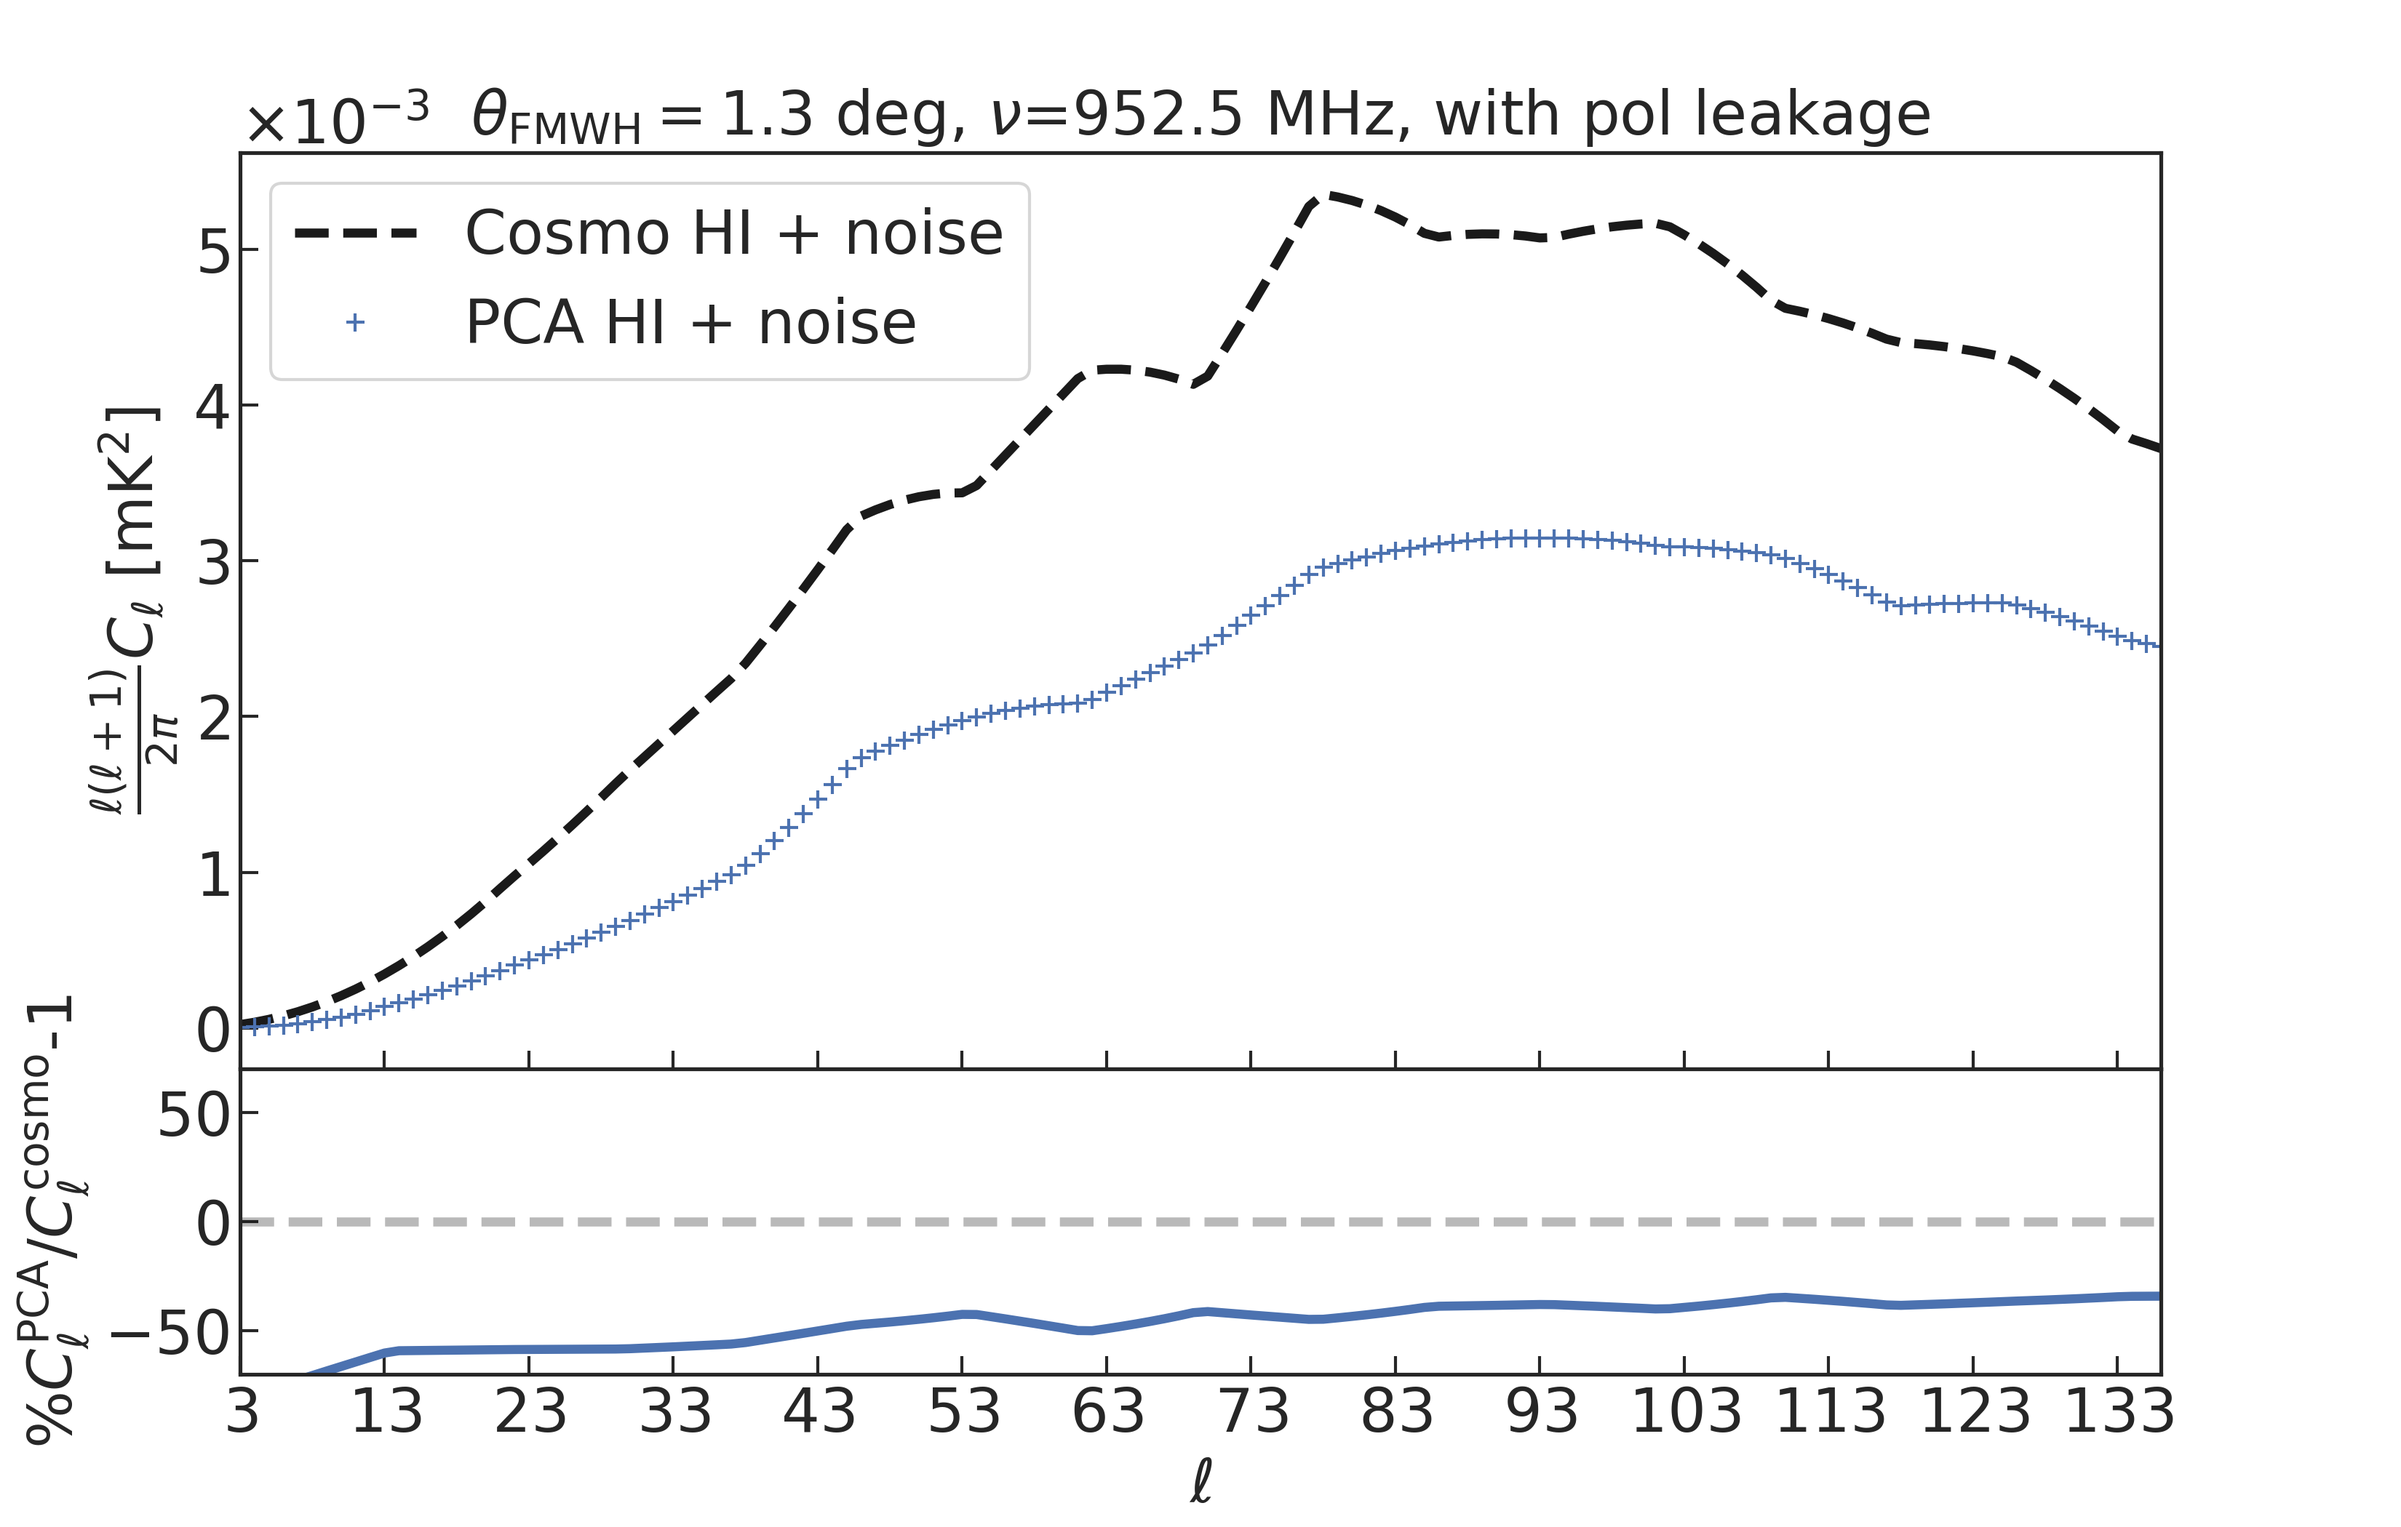
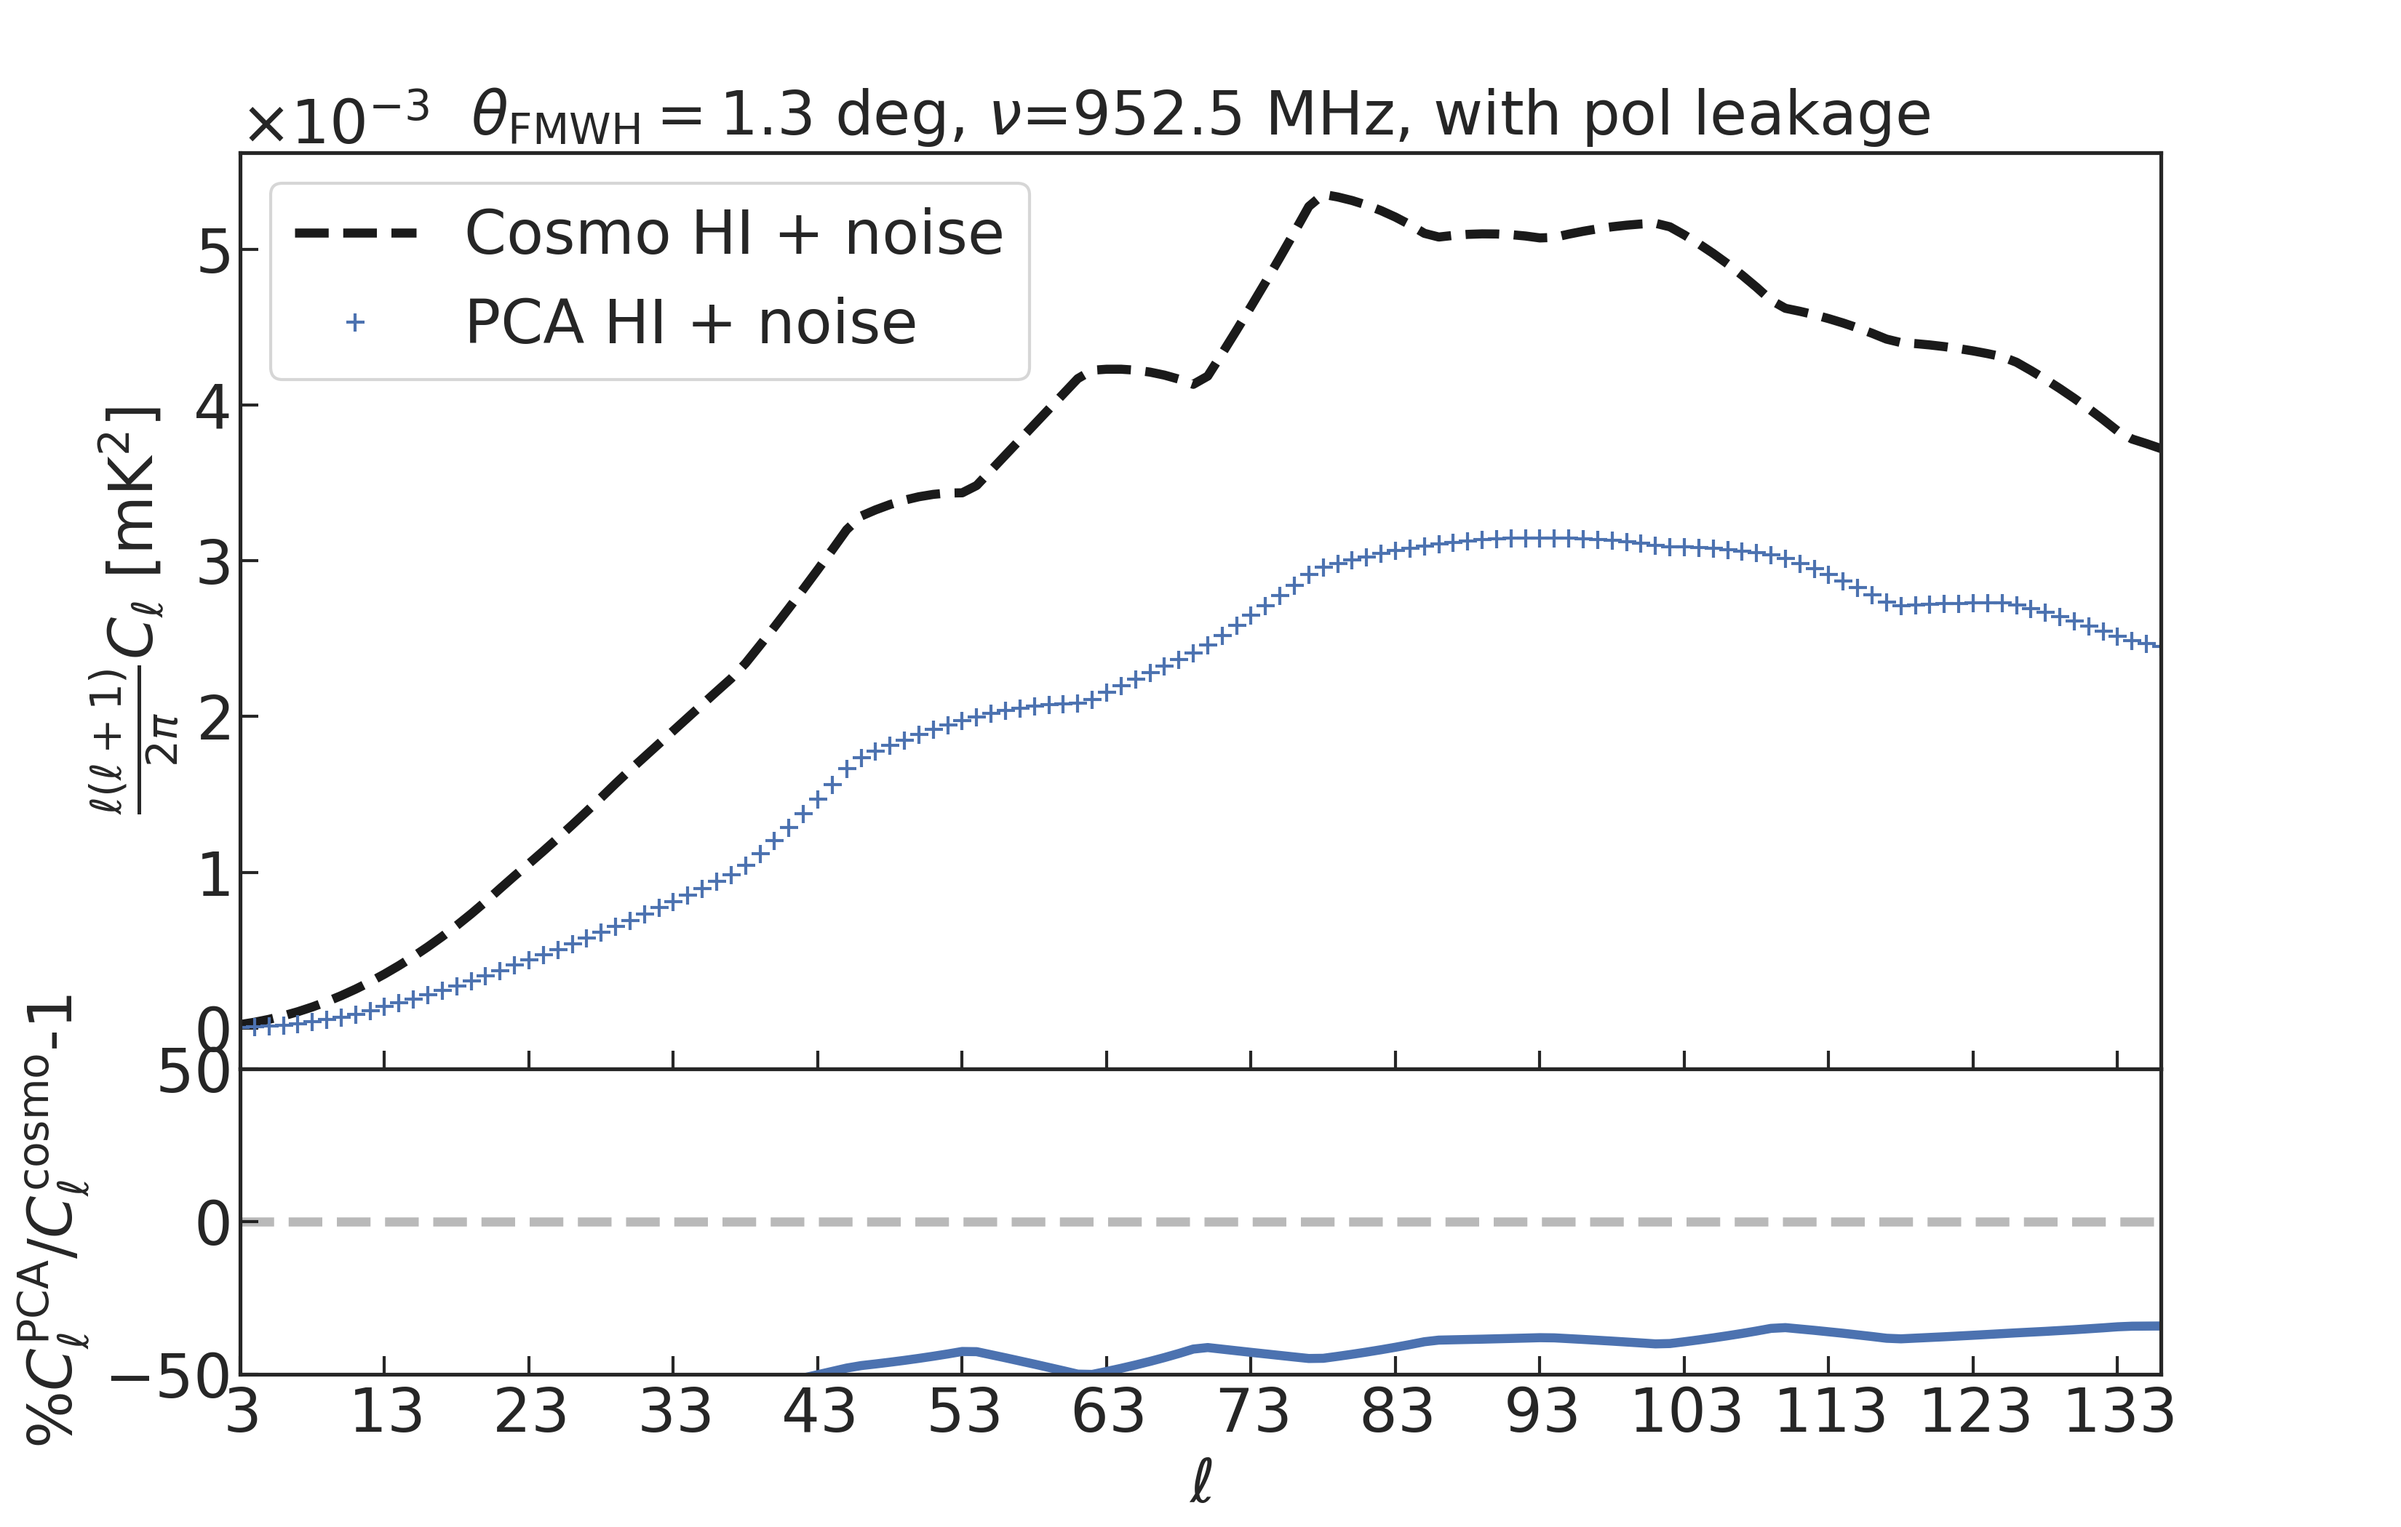
fixed some plots

Changed region(s): [[0.1248, 0.8357, 0.9052, 0.8976], [0.0624, 0.8357, 0.0936, 0.9286], [0.0624, 0.681, 0.0936, 0.7429]]

diff --git a/PCA_needlets_output/plots_paper.py b/PCA_needlets_output/plots_paper.py
@@ -111,9 +111,9 @@ plt.plot(ell[lmin:], diff_cl_need2sphe[ich][lmin:]*100,)
 frame2.axhline(ls='--', c= 'k', alpha=0.3)
 frame2.set_xlim([lmin,lmax_plot])
 if fg_comp=='synch_ff_ps_pol':
-	frame2.set_ylim([-70,70])
+	frame2.set_ylim([-50,50])
 else:
-	frame2.set_ylim([-20,20])
+	frame2.set_ylim([-50,50])
 frame2.set_ylabel(r'%$ C_{\ell}^{\rm PCA}/C_{\ell}^{\rm cosmo} $-1')
 frame2.set_xlabel(r'$\ell$')
 #frame2.yaxis.set_major_formatter(formatter) 
@@ -143,9 +143,9 @@ plt.plot(ell[lmin:], diff_cl_need2sphe.mean(axis=0)[lmin:]*100)
 frame2.axhline(ls='--', c= 'k', alpha=0.3)
 frame2.set_xlim([lmin,lmax_plot])
 if fg_comp=='synch_ff_ps_pol':
-	frame2.set_ylim([-70,70])
+	frame2.set_ylim([-50,50])
 else:
-	frame2.set_ylim([-20,20])
+	frame2.set_ylim([-50,50])
 frame2.set_ylabel(r'%$ \langle C_{\ell}^{\rm PCA}/C_{\ell}^{\rm cosmo} -1\rangle_{\rm ch}$')
 frame2.set_xlabel(r'$\ell$')
 #frame2.yaxis.set_major_formatter(formatter) 
@@ -204,9 +204,9 @@ plt.plot(ell[lmin:], diff_cl_need2sphe[ich][lmin:]*100,)
 frame2.axhline(ls='--', c= 'k', alpha=0.3)
 frame2.set_xlim([lmin,lmax_plot])
 if fg_comp=='synch_ff_ps_pol':
-	frame2.set_ylim([-70,70])
+	frame2.set_ylim([-50,50])
 else:
-	frame2.set_ylim([-20,20])
+	frame2.set_ylim([-50,50])
 frame2.set_ylabel(r'%$ C_{\ell}^{\rm PCA}/C_{\ell}^{\rm cosmo} $-1')
 frame2.set_xlabel(r'$\ell$')
 #frame2.yaxis.set_major_formatter(formatter) 
@@ -233,9 +233,9 @@ plt.plot(ell[lmin:], diff_cl_need2sphe_pol.mean(axis=0)[lmin:]*100)
 frame2.axhline(ls='--', c= 'k', alpha=0.3)
 frame2.set_xlim([lmin,lmax_plot])
 if fg_comp=='synch_ff_ps_pol':
-	frame2.set_ylim([-70,70])
+	frame2.set_ylim([-50,50])
 else:
-	frame2.set_ylim([-20,20])
+	frame2.set_ylim([-50,50])
 frame2.set_ylabel(r'%$ \langle C_{\ell}^{\rm PCA}/C_{\ell}^{\rm cosmo} -1\rangle_{\rm ch}$')
 frame2.set_xlabel(r'$\ell$')
 #frame2.yaxis.set_major_formatter(formatter) 
@@ -302,9 +302,9 @@ plt.plot(ell[lmin:], diff_cl_need2sphe_1p3deg[ich][lmin:]*100,)
 frame2.axhline(ls='--', c= 'k', alpha=0.3)
 frame2.set_xlim([lmin,lmax_plot])
 if fg_comp=='synch_ff_ps_pol':
-	frame2.set_ylim([-70,70])
+	frame2.set_ylim([-50,50])
 else:
-	frame2.set_ylim([-20,20])
+	frame2.set_ylim([-50,50])
 frame2.set_ylabel(r'%$ C_{\ell}^{\rm PCA}/C_{\ell}^{\rm cosmo} $-1')
 frame2.set_xlabel(r'$\ell$')
 frame2.set_xticks(np.arange(lmin,lmax_plot+1, 10))
@@ -330,9 +330,9 @@ plt.plot(ell[lmin:], diff_cl_need2sphe_1p3deg.mean(axis=0)[lmin:]*100)
 frame2.axhline(ls='--', c= 'k', alpha=0.3)
 frame2.set_xlim([lmin,lmax_plot])
 if fg_comp=='synch_ff_ps_pol':
-	frame2.set_ylim([-70,70])
+	frame2.set_ylim([-50,50])
 else:
-	frame2.set_ylim([-20,20])
+	frame2.set_ylim([-50,50])
 frame2.set_ylabel(r'%$ \langle C_{\ell}^{\rm PCA}/C_{\ell}^{\rm cosmo} -1\rangle_{\rm ch}$')
 frame2.set_xlabel(r'$\ell$')
 #frame2.yaxis.set_major_formatter(formatter) 
@@ -378,9 +378,9 @@ plt.plot(ell[lmin:], diff_cl_need2sphe_1p3deg_pol[ich][lmin:]*100,)
 frame2.axhline(ls='--', c= 'k', alpha=0.3)
 frame2.set_xlim([lmin,lmax_plot])
 if fg_comp=='synch_ff_ps_pol':
-	frame2.set_ylim([-70,70])
+	frame2.set_ylim([-50,50])
 else:
-	frame2.set_ylim([-20,20])
+	frame2.set_ylim([-50,50])
 frame2.set_ylabel(r'%$ C_{\ell}^{\rm PCA}/C_{\ell}^{\rm cosmo} $-1')
 frame2.set_xlabel(r'$\ell$')
 #frame2.yaxis.set_major_formatter(formatter) 
@@ -406,9 +406,9 @@ plt.plot(ell[lmin:], diff_cl_need2sphe_1p3deg_pol.mean(axis=0)[lmin:]*100)
 frame2.axhline(ls='--', c= 'k', alpha=0.3)
 frame2.set_xlim([lmin,lmax_plot])
 if fg_comp=='synch_ff_ps_pol':
-	frame2.set_ylim([-70,70])
+	frame2.set_ylim([-50,50])
 else:
-	frame2.set_ylim([-20,20])
+	frame2.set_ylim([-50,50])
 frame2.set_ylabel(r'%$ \langle C_{\ell}^{\rm PCA}/C_{\ell}^{\rm cosmo} -1\rangle_{\rm ch}$')
 frame2.set_xlabel(r'$\ell$')
 #frame2.yaxis.set_major_formatter(formatter) 
@@ -428,7 +428,7 @@ ax.plot(ell[lmin:], diff_cl_need2sphe[0][lmin:]*100, label = 'Frequency-dependen
 ax.plot(ell[lmin:], diff_cl_need2sphe_1p3deg[0][lmin:]*100, label = r'$\theta_{\rm FMWH}=$ 1.3 deg')
 ax.axhline(ls='--', c= 'k', alpha=0.3)
 ax.set_xlim([lmin, lmax_plot+1])
-ax.set_ylim([-20,20])
+ax.set_ylim([-50,50])
 ax.set_ylabel(r'%$ C_{\ell}^{\rm PCA}/C_{\ell}^{\rm cosmo} $-1')
 ax.set_xlabel(r'$\ell$')
 ax.set_xticks(np.arange(lmin,lmax_plot+1, 10))
@@ -442,7 +442,7 @@ ax.plot(ell[lmin:], diff_cl_need2sphe.mean(axis=0)[lmin:]*100, label = 'Frequenc
 ax.plot(ell[lmin:], diff_cl_need2sphe_1p3deg.mean(axis=0)[lmin:]*100, label = r'$\theta_{\rm FMWH}=$ 1.3 deg')
 ax.axhline(ls='--', c= 'k', alpha=0.3)
 ax.set_xlim([lmin, lmax_plot+1])
-ax.set_ylim([-20,20])
+ax.set_ylim([-50,50])
 ax.set_ylabel(r'%$ C_{\ell}^{\rm PCA}/C_{\ell}^{\rm cosmo} $-1')
 ax.set_xlabel(r'$\ell$')
 ax.set_xticks(np.arange(lmin,lmax_plot+1, 10))
@@ -456,7 +456,7 @@ ax.plot(ell[lmin:], diff_cl_need2sphe_pol.mean(axis=0)[lmin:]*100, label = 'Freq
 ax.plot(ell[lmin:], diff_cl_need2sphe_1p3deg_pol.mean(axis=0)[lmin:]*100, label = r'$\theta_{\rm FMWH}=$ 1.3 deg')
 ax.axhline(ls='--', c= 'k', alpha=0.3)
 ax.set_xlim([lmin, lmax_plot+1])
-ax.set_ylim([-70,70])
+ax.set_ylim([-50,50])
 ax.set_ylabel(r'%$ C_{\ell}^{\rm PCA}/C_{\ell}^{\rm cosmo} $-1')
 ax.set_xlabel(r'$\ell$')
 ax.set_xticks(np.arange(lmin,lmax_plot+1, 10))
